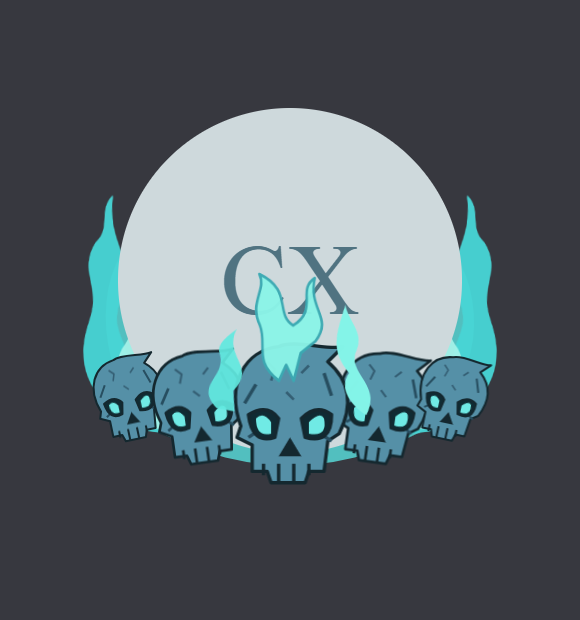
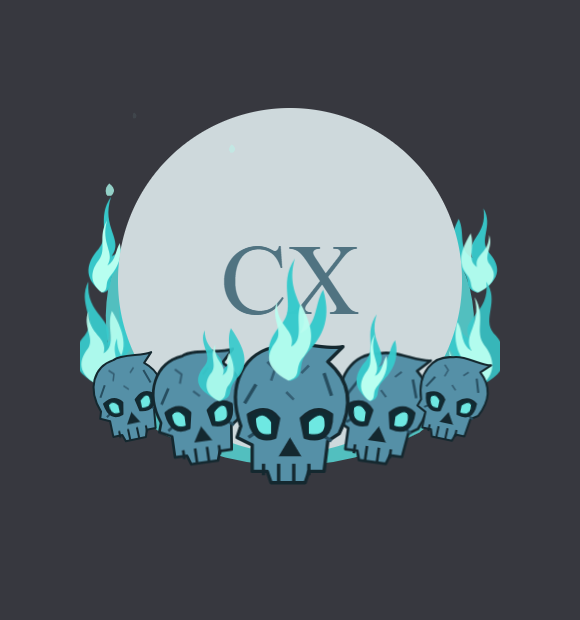
Animate soul fire contours with rising flames and bright cores

diff --git a/src/components/common/SoulFireArtwork.tsx b/src/components/common/SoulFireArtwork.tsx
@@ -1,11 +1,22 @@
+import type { CSSProperties } from 'react';
+
+// Matching curve topology lets CSS interpolate the flame contour, not just rotate it.
+function Flame({ x, y, scale = 1, delay = 0 }: { x: number; y: number; scale?: number; delay?: number }) {
+  return <g transform={`translate(${x} ${y}) scale(${scale})`} style={{ '--flame-delay': `${delay}s` } as CSSProperties}>
+    <path className="soul-flame soul-fire-contour" d="M10 40C-2 35 0 26 5 21C9 16 3 10 8 3C6 14 17 16 13 23C20 19 14 13 18 9C23 20 21 26 16 31C14 35 16 38 10 40Z" fill="#37cacc" />
+    <g transform="translate(3 10) scale(.65 .75)"><path className="soul-flame soul-fire-contour soul-fire-core" d="M10 40C-2 35 0 26 5 21C9 16 3 10 8 3C6 14 17 16 13 23C20 19 14 13 18 9C23 20 21 26 16 31C14 35 16 38 10 40Z" fill="#b8fff0" /></g>
+  </g>;
+}
+
 /** Two local SVG layers: fire behind the portrait, five carved skulls in front. */
 export default function SoulFireArtwork({ layer }: { layer: 'back' | 'front' }) {
   return <svg className={`avatar-artwork soul-fire-artwork soul-fire-${layer}`} viewBox="0 0 120 120" aria-hidden="true">
     {layer === 'back' ? <>
       <path d="M14 41C2 55 7 85 23 95Q60 114 97 95C115 81 117 56 105 41C107 58 99 63 99 71C96 67 99 61 94 57C94 76 80 83 60 84C40 83 24 76 25 58C18 65 24 69 20 75C12 63 18 54 14 41Z" fill="#59e1de" opacity=".8" />
-      {[false, true].map(right => <g key={String(right)} transform={right ? 'translate(125 0) scale(-1 1)' : 'translate(-5 0)'}>
-        <path className="soul-flame flame-outer" d="M20 94C4 83 5 73 9 64C13 55 6 51 12 43C17 39 13 34 18 30C15 43 24 47 19 58C14 68 21 69 19 77C25 75 25 66 29 65C27 82 35 87 35 96Z" fill="#47d5d5" />
-        <path className="soul-flame flame-inner" d="M22 94C13 83 12 79 15 70C19 64 16 57 20 53C18 65 26 69 23 77C21 83 29 84 30 94Z" fill="#a9f5eb" />
+      {[false, true].map(right => <g key={String(right)} transform={right ? 'translate(120 0) scale(-1 1)' : undefined}>
+        <Flame x={0} y={29} scale={.65} delay={right ? -.8 : -.2} />
+        <Flame x={-2} y={48} scale={.85} delay={right ? -1.7 : -.9} />
+        <Flame x={8} y={64} scale={.7} delay={right ? -.4 : -1.4} />
       </g>)}
     </> : <>
       <g fill="#5590a7" stroke="#14282f" strokeWidth=".9" strokeLinejoin="round">
@@ -17,11 +28,12 @@ export default function SoulFireArtwork({ layer }: { layer: 'back' | 'front' }) 
           <path d="M0 5L-3 10L3 10Z" fill="#14282f" stroke="none" />
           <path d="M-7 12V15M-3 12V17M1 12V17M5 12V15" fill="none" />
           <path d="M-6-15L-4-13L-5-10M5-14L3-12M-1-7L1-5" fill="none" stroke="#345e73" strokeWidth=".7" />
-          {index === 4 && <path className="soul-flame flame-crown" d="M-3-10C-10-15-6-19-8-24C-11-30-6-33-8-37C1-33-4-27 1-24C8-28 2-33 7-36C5-28 12-26 7-20L3-17L1-10L-1-14Z" fill="#8bf4e7" stroke="#3aa9b2" strokeWidth=".7" />}
+          {index === 4 && <g stroke="none"><Flame x={-8} y={-42} scale={.8} delay={-.6} /></g>}
         </g>)}
       </g>
-      <path className="soul-flame flame-wisp" d="M39 88C32 81 41 79 38 72C37 69 40 67 42 65C39 73 49 76 43 83L44 89Z" fill="#61e9e0" />
-      <path className="soul-flame flame-wisp wisp-right" d="M82 90C88 82 77 79 81 73C84 68 79 65 79 61C75 69 73 73 78 79C74 83 78 88 82 90Z" fill="#84f4e8" />
+      <Flame x={34} y={62} scale={.6} delay={-1.2} />
+      <Flame x={77} y={62} scale={.6} delay={-.1} />
+      {[{ x: 12, y: 46 }, { x: 103, y: 54 }, { x: 45, y: 59 }].map(({ x, y }, i) => <path key={x} className="soul-fire-ember" style={{ '--flame-delay': `${-i * .9}s` } as CSSProperties} d={`M${x} ${y}q-2-3 1-6q4 3 1 6Z`} fill="#affff0" />)}
     </>}
   </svg>;
 }

diff --git a/src/components/common/ProfileCosmetics.css b/src/components/common/ProfileCosmetics.css
@@ -5,15 +5,18 @@
 .soul-fire-back { z-index:0; }
 .soul-fire-front { z-index:2; }
 .soul-flame { transform-box:fill-box; transform-origin:50% 100%; }
-.decoration-soul-fire.is-animated .soul-flame { animation:soul-fire-dance 1.9s ease-in-out infinite; }
-.decoration-soul-fire.is-animated .flame-inner { animation-duration:1.3s; animation-delay:-.7s; }
-.decoration-soul-fire.is-animated .flame-crown { animation-duration:1.6s; animation-delay:-.4s; }
-.decoration-soul-fire.is-animated .flame-wisp { animation-duration:2.3s; animation-delay:-1.1s; }
-.decoration-soul-fire.is-animated .wisp-right { animation-delay:-.3s; }
+.decoration-soul-fire.is-animated .soul-fire-contour { animation:soul-fire-flow 2.4s ease-in-out infinite; animation-delay:var(--flame-delay,0s); }
+.decoration-soul-fire.is-animated .soul-fire-core { animation-duration:1.8s; }
+.decoration-soul-fire.is-animated .soul-fire-ember { animation:soul-fire-rise 2.8s ease-out infinite; animation-delay:var(--flame-delay,0s); }
 .decoration-soul-fire.is-animated .soul-eye { animation:soul-eye-glow 3s ease-in-out infinite; }
-@keyframes soul-fire-dance { 0%,100% { transform:skewX(-4deg) scale(1,.94); opacity:.85; } 35% { transform:skewX(6deg) scale(.93,1.09); opacity:1; } 70% { transform:skewX(-7deg) scale(1.04,.98); opacity:.92; } }
+@keyframes soul-fire-flow {
+  0%,100% { d:path('M10 40C-2 35 0 26 5 21C9 16 3 10 8 3C6 14 17 16 13 23C20 19 14 13 18 9C23 20 21 26 16 31C14 35 16 38 10 40Z'); transform:scale(1,.97); opacity:.85; }
+  33% { d:path('M10 40C0 34 3 27 8 22C14 16 7 9 14 0C9 13 20 18 14 25C20 23 20 16 23 13C25 23 19 28 15 32C12 35 15 39 10 40Z'); transform:scale(.95,1.06); opacity:1; }
+  68% { d:path('M10 40C-3 34-1 28 3 23C7 18 0 13 3 6C3 17 13 17 11 25C18 21 12 13 15 5C23 17 23 24 17 30C13 35 17 38 10 40Z'); transform:scale(1.04,.99); opacity:.92; }
+}
+@keyframes soul-fire-rise { 0% { transform:translate(0,5px) scale(.7); opacity:0; } 20% { opacity:.8; } 100% { transform:translate(3px,-12px) scale(.25); opacity:0; } }
 @keyframes soul-eye-glow { 50% { opacity:.65; } }
-@media (prefers-reduced-motion:reduce) { .decoration-soul-fire.is-animated .soul-flame, .decoration-soul-fire.is-animated .soul-eye { animation:none; } }
+@media (prefers-reduced-motion:reduce) { .decoration-soul-fire.is-animated .soul-flame, .decoration-soul-fire.is-animated .soul-eye, .decoration-soul-fire.is-animated .soul-fire-ember { animation:none; } }
 .avatar-frame::after { content:''; position:absolute; inset:2%; border-radius:50%; pointer-events:none; border:clamp(1px,.035em,3px) solid var(--cosmetic-color); }
 .decoration-orbit::after { border:2px dashed var(--cosmetic-color); }
 .decoration-laurel::after { border:3px double #d1af67; border-left-color:var(--cosmetic-color); border-right-color:var(--cosmetic-color); }
